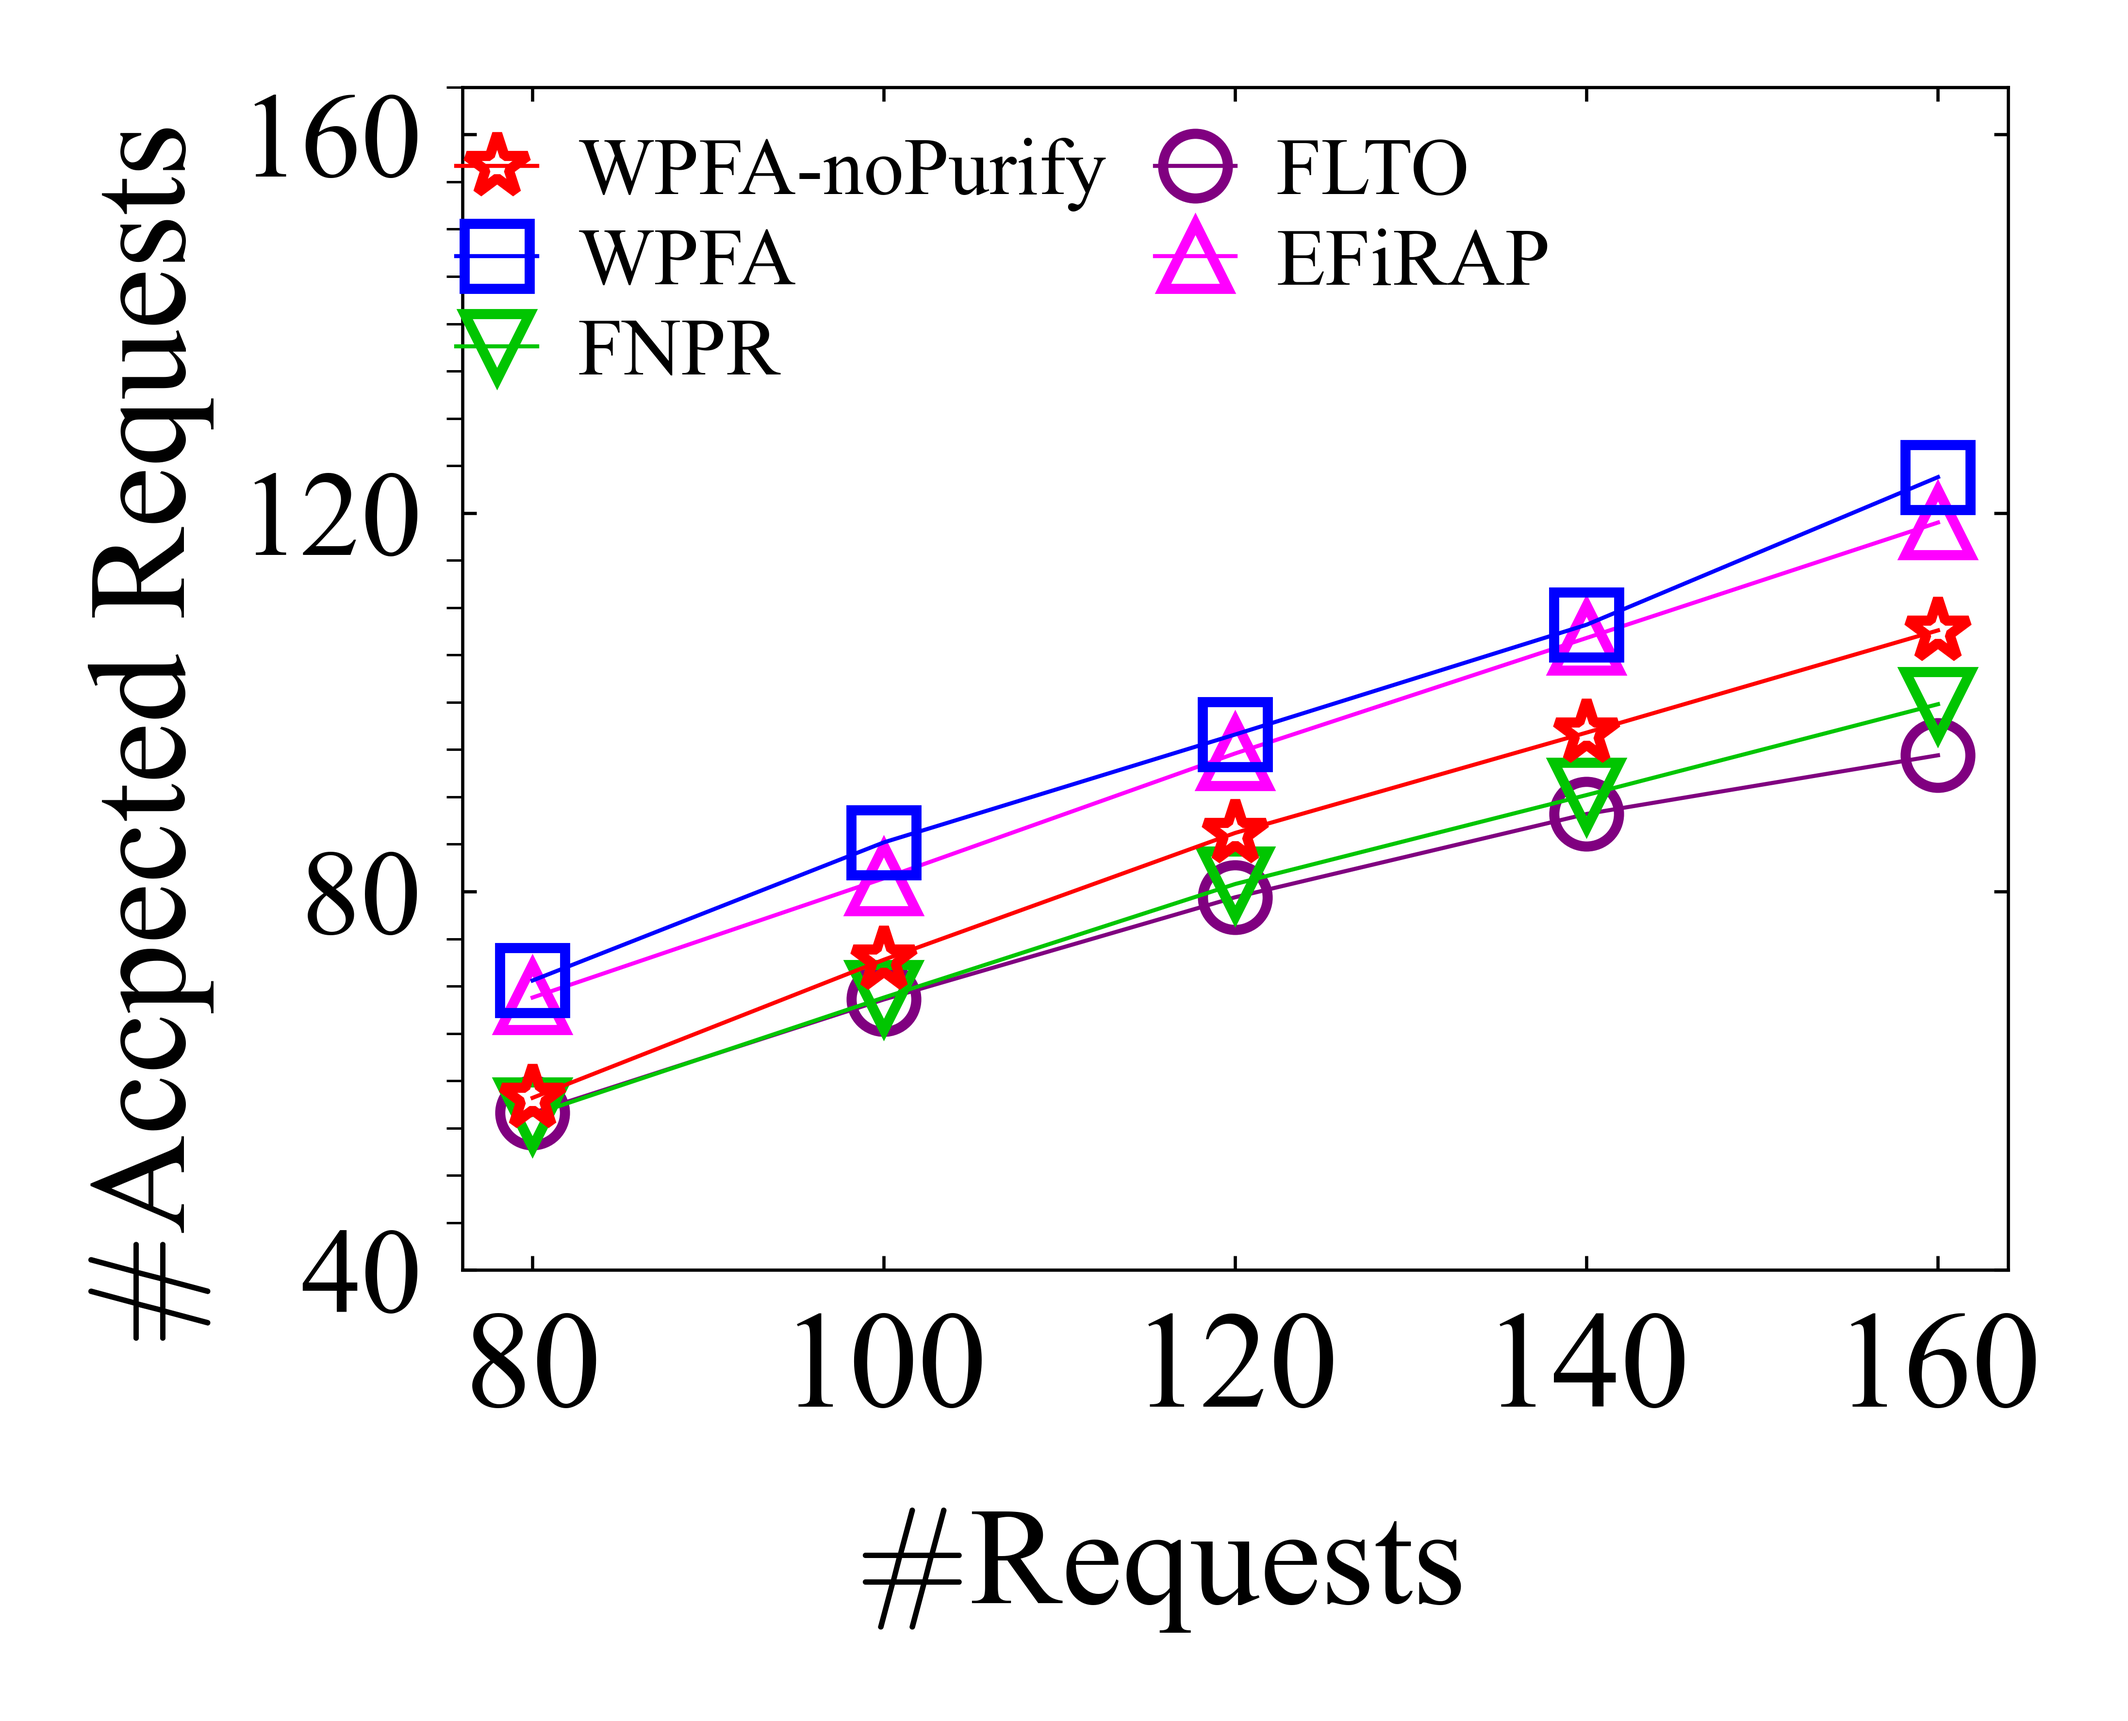
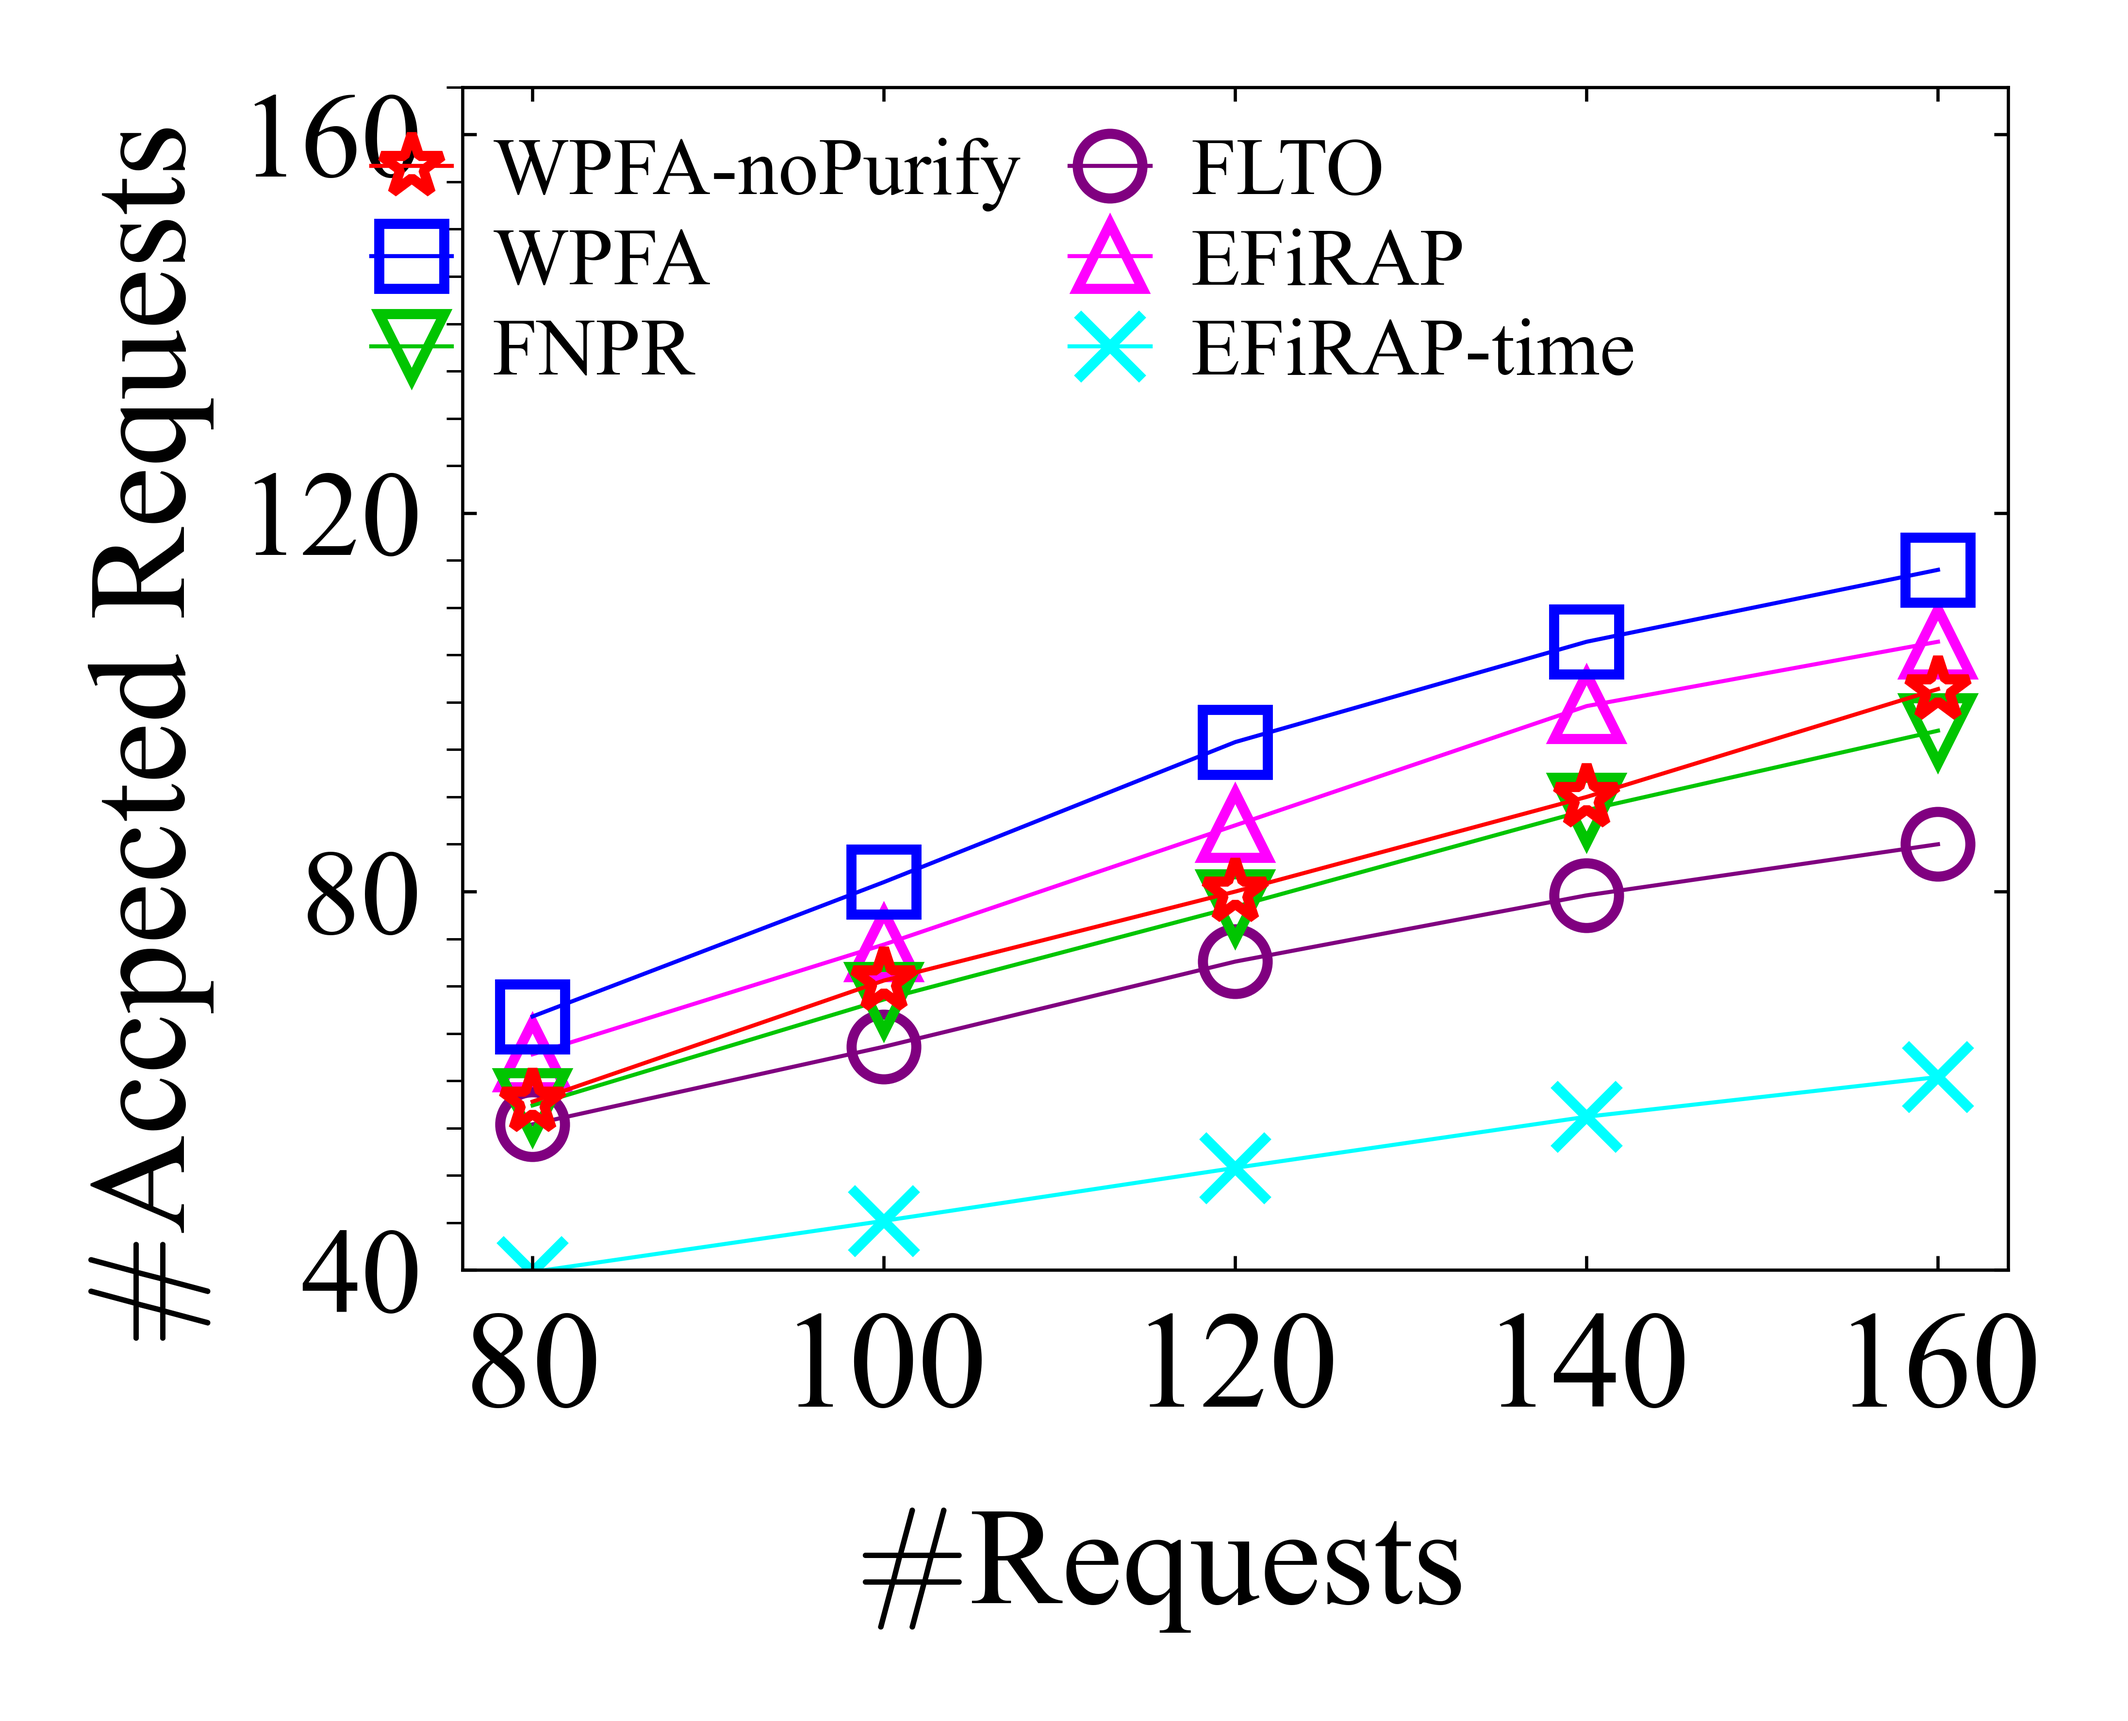
add EFiRAP long time

diff --git a/src/Algorithm/EFiRAP_longtime/EFiRAP_longtime.cpp b/src/Algorithm/EFiRAP_longtime/EFiRAP_longtime.cpp
@@ -19,16 +19,6 @@ constexpr double DIJKSTRA_EPS = 1e-12;
 constexpr double MARGINAL_TIE_EPS = 1e-10;
 constexpr int MAX_PURIFICATION_ROUNDS = 3;
 
-// Same purification memory profile as WPFA's Purify_in_vt. Row r stores the
-// total number of cells required at each reverse-time index for r rounds.
-constexpr int PURIFICATION_MEMORY_PROFILE
-    [MAX_PURIFICATION_ROUNDS + 1][MAX_PURIFICATION_ROUNDS + 2] = {
-        {1, 1, 0, 0, 0},
-        {1, 2, 2, 0, 0},
-        {1, 2, 3, 2, 0},
-        {1, 2, 3, 3, 2},
-    };
-
 bool has_prefix(const Path& path, const Path& prefix) {
     if(path.size() < prefix.size()) return false;
     for(size_t i = 0; i < prefix.size(); ++i) {
@@ -303,9 +293,8 @@ map<EFiRAP_longtime::ResourceKey, int> EFiRAP_longtime::calculate_memory_usage(
         }
     }
 
-    // Keep the current EFiRAP purification profile, but never release an extra
-    // cell after its first use. The running maximum is the number of distinct
-    // extra cells that have been activated by that point in the protocol.
+    // EFiRAP generates all sacrificial pairs simultaneously. Once generated,
+    // all of their memory cells stay occupied through the end of the horizon.
     for(size_t link = 0; link + 1 < shape_vector.size(); ++link) {
         int rounds = link < purify_rounds.size() ? purify_rounds[link] : 0;
         if(rounds <= 0) continue;
@@ -313,19 +302,9 @@ map<EFiRAP_longtime::ResourceKey, int> EFiRAP_longtime::calculate_memory_usage(
         int link_start = shape_vector[link].second.back().first;
         int left_node = shape_vector[link].first;
         int right_node = shape_vector[link + 1].first;
-        int retained_extra = 0;
-        for(int time = link_start; time <= last_time; ++time) {
-            int offset = time - link_start;
-            if(offset <= rounds + 1) {
-                int profile_index = rounds + 1 - offset;
-                int active_extra =
-                    PURIFICATION_MEMORY_PROFILE[rounds][profile_index] - 1;
-                retained_extra = max(retained_extra, active_extra);
-            }
-            if(retained_extra > 0) {
-                usage[{left_node, time}] += retained_extra;
-                usage[{right_node, time}] += retained_extra;
-            }
+        for(int t = link_start; t < time_limit; ++t) {
+            usage[{left_node, t}] += rounds;
+            usage[{right_node, t}] += rounds;
         }
     }
     return usage;

diff --git a/src/Algorithm/EFiRAP/EFiRAP.cpp b/src/Algorithm/EFiRAP/EFiRAP.cpp
@@ -19,16 +19,6 @@ constexpr double DIJKSTRA_EPS = 1e-12;
 constexpr double MARGINAL_TIE_EPS = 1e-10;
 constexpr int MAX_PURIFICATION_ROUNDS = 3;
 
-// Same purification memory profile as WPFA's Purify_in_vt. Row r stores the
-// total number of cells required at each reverse-time index for r rounds.
-constexpr int PURIFICATION_MEMORY_PROFILE
-    [MAX_PURIFICATION_ROUNDS + 1][MAX_PURIFICATION_ROUNDS + 2] = {
-        {1, 1, 0, 0, 0},
-        {1, 2, 2, 0, 0},
-        {1, 2, 3, 2, 0},
-        {1, 2, 3, 3, 2},
-    };
-
 bool has_prefix(const Path& path, const Path& prefix) {
     if(path.size() < prefix.size()) return false;
     for(size_t i = 0; i < prefix.size(); ++i) {
@@ -301,9 +291,8 @@ map<EFiRAP::ResourceKey, int> EFiRAP::calculate_memory_usage(
         }
     }
 
-    // Apply the same multi-timeslot purification profile as WPFA. The primary
-    // cell is already included by the Shape ranges above, so add only the
-    // profile's extra cells at both endpoints.
+    // EFiRAP generates all sacrificial pairs simultaneously. Their memory
+    // cells stay occupied through the end of the simulation horizon.
     for(size_t link = 0; link + 1 < shape_vector.size(); ++link) {
         int rounds = link < purify_rounds.size() ? purify_rounds[link] : 0;
         if(rounds <= 0) continue;
@@ -311,15 +300,9 @@ map<EFiRAP::ResourceKey, int> EFiRAP::calculate_memory_usage(
         int link_start = shape_vector[link].second.back().first;
         int left_node = shape_vector[link].first;
         int right_node = shape_vector[link + 1].first;
-        for(int offset = 0; offset <= rounds + 1; ++offset) {
-            int profile_index = rounds + 1 - offset;
-            int extra =
-                PURIFICATION_MEMORY_PROFILE[rounds][profile_index] - 1;
-            if(extra <= 0) continue;
-
-            int time = link_start + offset;
-            usage[{left_node, time}] += extra;
-            usage[{right_node, time}] += extra;
+        for(int t = link_start; t < time_limit; ++t) {
+            usage[{left_node, t}] += rounds;
+            usage[{right_node, t}] += rounds;
         }
     }
     return usage;

diff --git a/plot/ChartGenerator.py b/plot/ChartGenerator.py
@@ -151,7 +151,7 @@ class ChartGenerator:
 
     _Y_INTERVALS = {
         'fidelity_gain':{
-            'request_cnt': (35, 105, 5, 7), 'tao': (20, 60, 5, 2),
+            'request_cnt': (20, 105, 5, 4), 'tao': (20, 60, 5, 2),
             'time_limit': (30, 55, 5, 1), 'avg_memory': (0, 30, 5, 2),
             'min_fidelity': (23, 63, 5, 1), 'fidelity_threshold': (0, 85, 5, 4),
             'swap_prob': (20, 55, 5, 1), 'entangle_time': "auto",
@@ -200,11 +200,15 @@ class ChartGenerator:
 
     # 欄位順序與 main.cpp 相同：
     # ZFA_UB=WernerAlgo3, ZFA=WernerAlgo, ZFA2=WernerAlgo2,
-    # MyAlgo1=MyAlgo1, MyAlgo3=MyAlgo3, EFiRAP=EFiRAP
-    _ALGO_NAMES = ["UB", "WPFA-noPurify", "WPFA", "FNPR", "FLTO", "EFiRAP"]
+    # MyAlgo1=MyAlgo1, MyAlgo3=MyAlgo3, EFiRAP=EFiRAP,
+    # EFiRAP_longtime=EFiRAP-time
+    _ALGO_NAMES = [
+        "UB", "WPFA-noPurify", "WPFA", "FNPR", "FLTO", "EFiRAP",
+        "EFiRAP-time",
+    ]
 
-    # 保持資料欄位順序，並包含第 6 個演算法 EFiRAP。
-    _DRAW_ORDER = [0, 1, 2, 3, 4, 5]
+    # 保持資料欄位順序，EFiRAP-time 是 main.cpp 輸出的最後一個演算法。
+    _DRAW_ORDER = [0, 1, 2, 3, 4, 5, 6]
 
     # 保持原本各欄位使用的 marker 與顏色。
     _MARKERS = ['s', '*', 's', 'v', 'o', '^', 'x', '1', 'D']

diff --git a/src/main.cpp b/src/main.cpp
@@ -1254,7 +1254,7 @@ int main(){
                     if(EFiRAP::gurobi_available()) {
                         DBG_HERE("before new EFiRAP");
                         algorithms.emplace_back(
-                            new EFiRAP(graph, requests, paths, 3));
+                            new EFiRAP(graph, requests, paths, 5));
                         DBG_HERE("after new EFiRAP");
                     }
                     if(X_name!="Zmin"&&X_name!="bucket_eps"&&X_name!="time_eta"){
@@ -1269,7 +1269,7 @@ int main(){
                     if(EFiRAP_longtime::gurobi_available()) {
                         DBG_HERE("before new EFiRAP_longtime");
                         algorithms.emplace_back(
-                            new EFiRAP_longtime(graph, requests, paths, 3));
+                            new EFiRAP_longtime(graph, requests, paths, 5));
                         DBG_HERE("after new EFiRAP_longtime");
                     }
 

diff --git a/src/Algorithm/EFiRAP/EFiRAP.h b/src/Algorithm/EFiRAP/EFiRAP.h
@@ -37,8 +37,9 @@ using namespace std;
  *     project's Werner/decoherence model, not the paper's bit-flip model.
  *   - There is no independent link-capacity constraint. One primary Bell
  *     pair and every sacrificial pair consume memory at both link endpoints.
- *   - Purification uses the same per-round duration and per-timeslot memory
- *     profile as WPFA. Memory is reusable after the operation lifetime ends.
+ *   - All sacrificial pairs for a link are generated simultaneously and stay
+ *     occupied through time_limit - 1. Primary memory remains reusable after
+ *     its Shape lifetime ends.
  *   - EPS follows Algorithm 2 in the paper: solve the LP relaxation, enumerate
  *     bounded integer lower-bound guesses, re-solve the LP, and floor it.
  */

diff --git a/src/Algorithm/EFiRAP_longtime/EFiRAP_longtime.h b/src/Algorithm/EFiRAP_longtime/EFiRAP_longtime.h
@@ -39,8 +39,9 @@ using namespace std;
  *     pair and every sacrificial pair consume memory at both link endpoints.
  *   - Purification uses the same per-round duration and per-timeslot memory
  *     profile as WPFA.
- *   - Once a primary or purification memory cell is first used, it remains
- *     occupied through time_limit - 1. Operation timing itself is unchanged.
+ *   - All sacrificial pairs for a link are generated simultaneously. Once a
+ *     primary or sacrificial memory cell is used, it remains occupied through
+ *     time_limit - 1. Operation timing itself is unchanged.
  *   - EPS follows Algorithm 2 in the paper: solve the LP relaxation, enumerate
  *     bounded integer lower-bound guesses, re-solve the LP, and floor it.
  */
